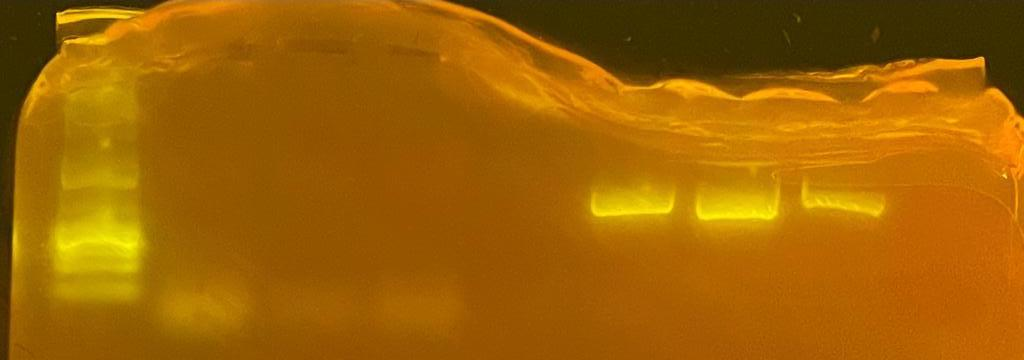
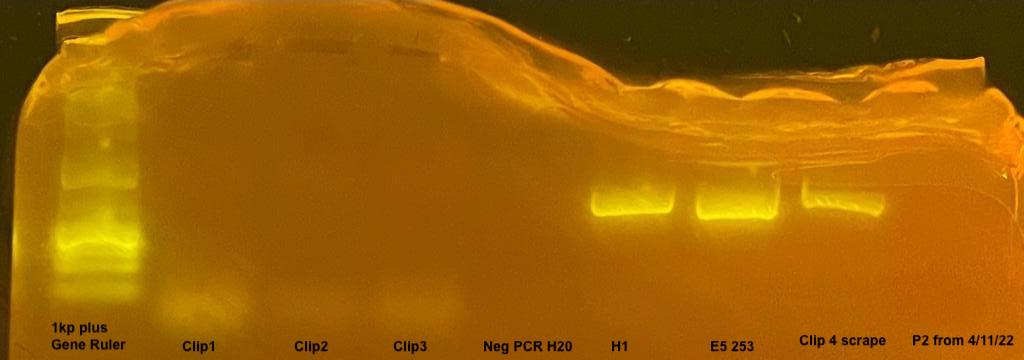
adding PCR results

diff --git a/_posts/2022-04-11-ChelexAndDirectAmp.md b/_posts/2022-04-11-ChelexAndDirectAmp.md
@@ -99,7 +99,7 @@ Aliquot 13.5µl of master mix into each tube
 
 1% TAE Gel
 
-![Phire Direct PCR Results](https://github.com/hputnam/Putnam_Lab_Notebook/blob/master/images/20220411_DreamTaq_Gel.jpeg?raw=true)
+![Phire Direct PCR Results](https://raw.githubusercontent.com/hputnam/Putnam_Lab_Notebook/master/images/20220411_PhireDirectPCR_Gel.jpeg)
 
 
 
